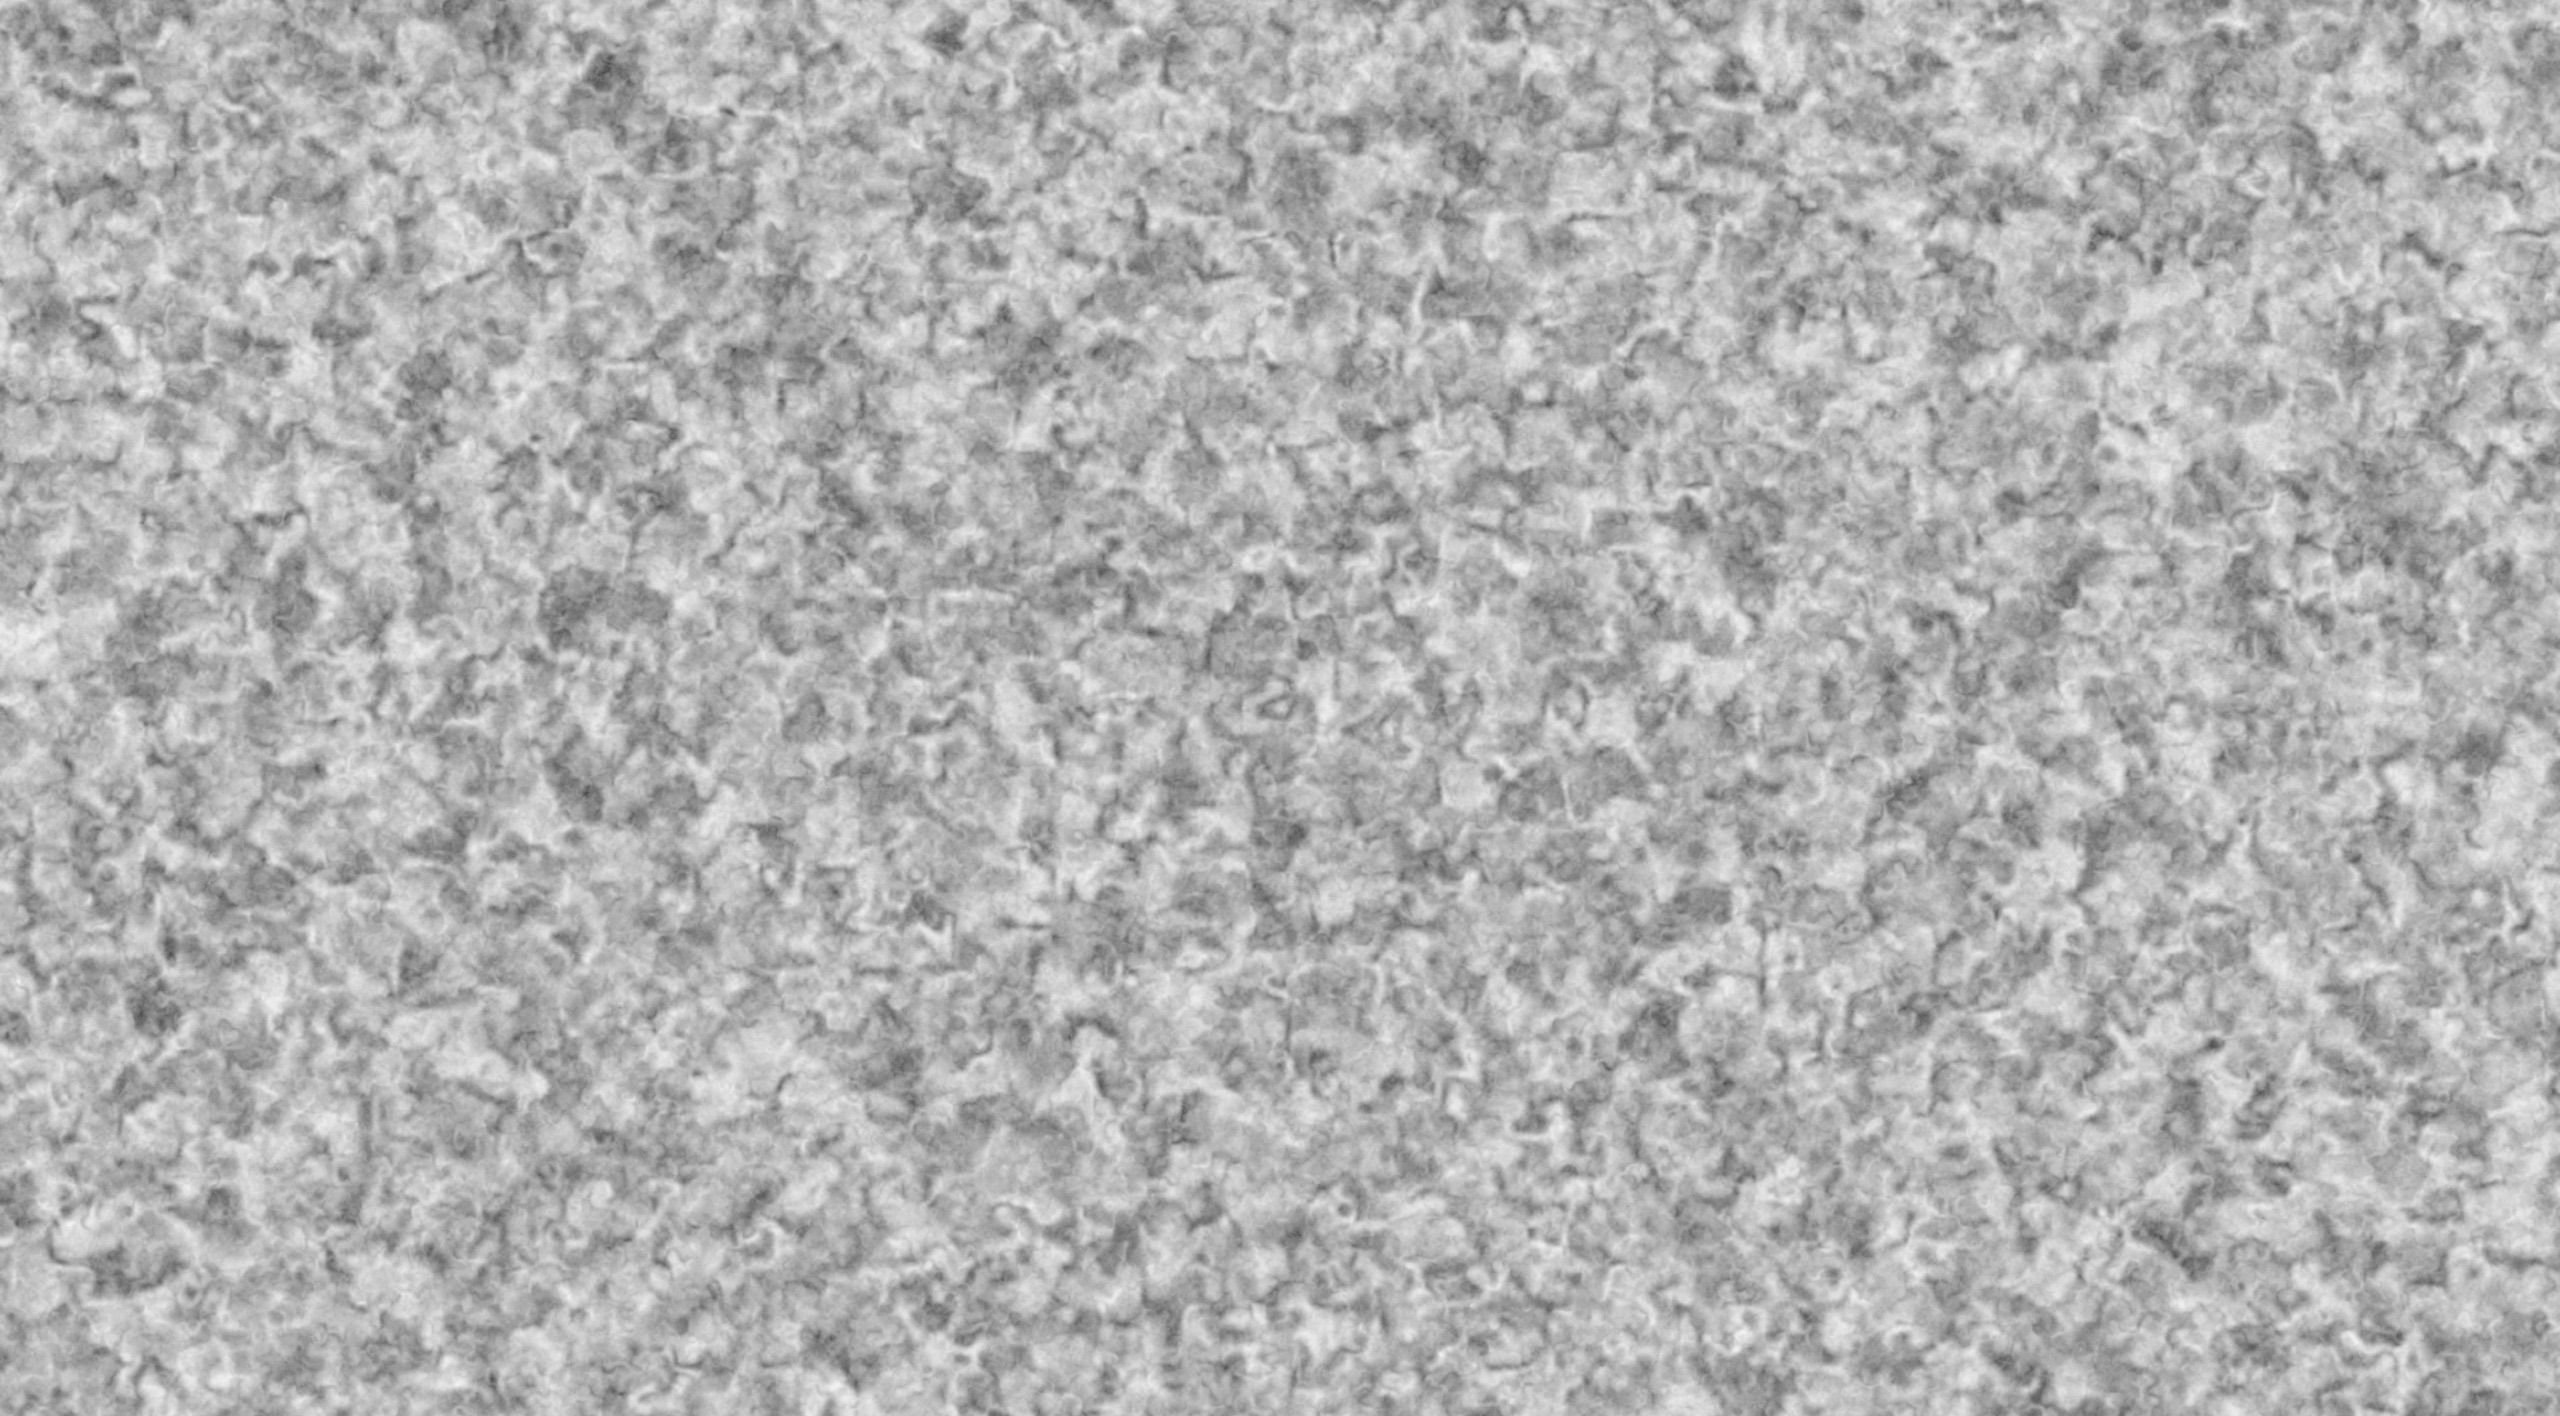
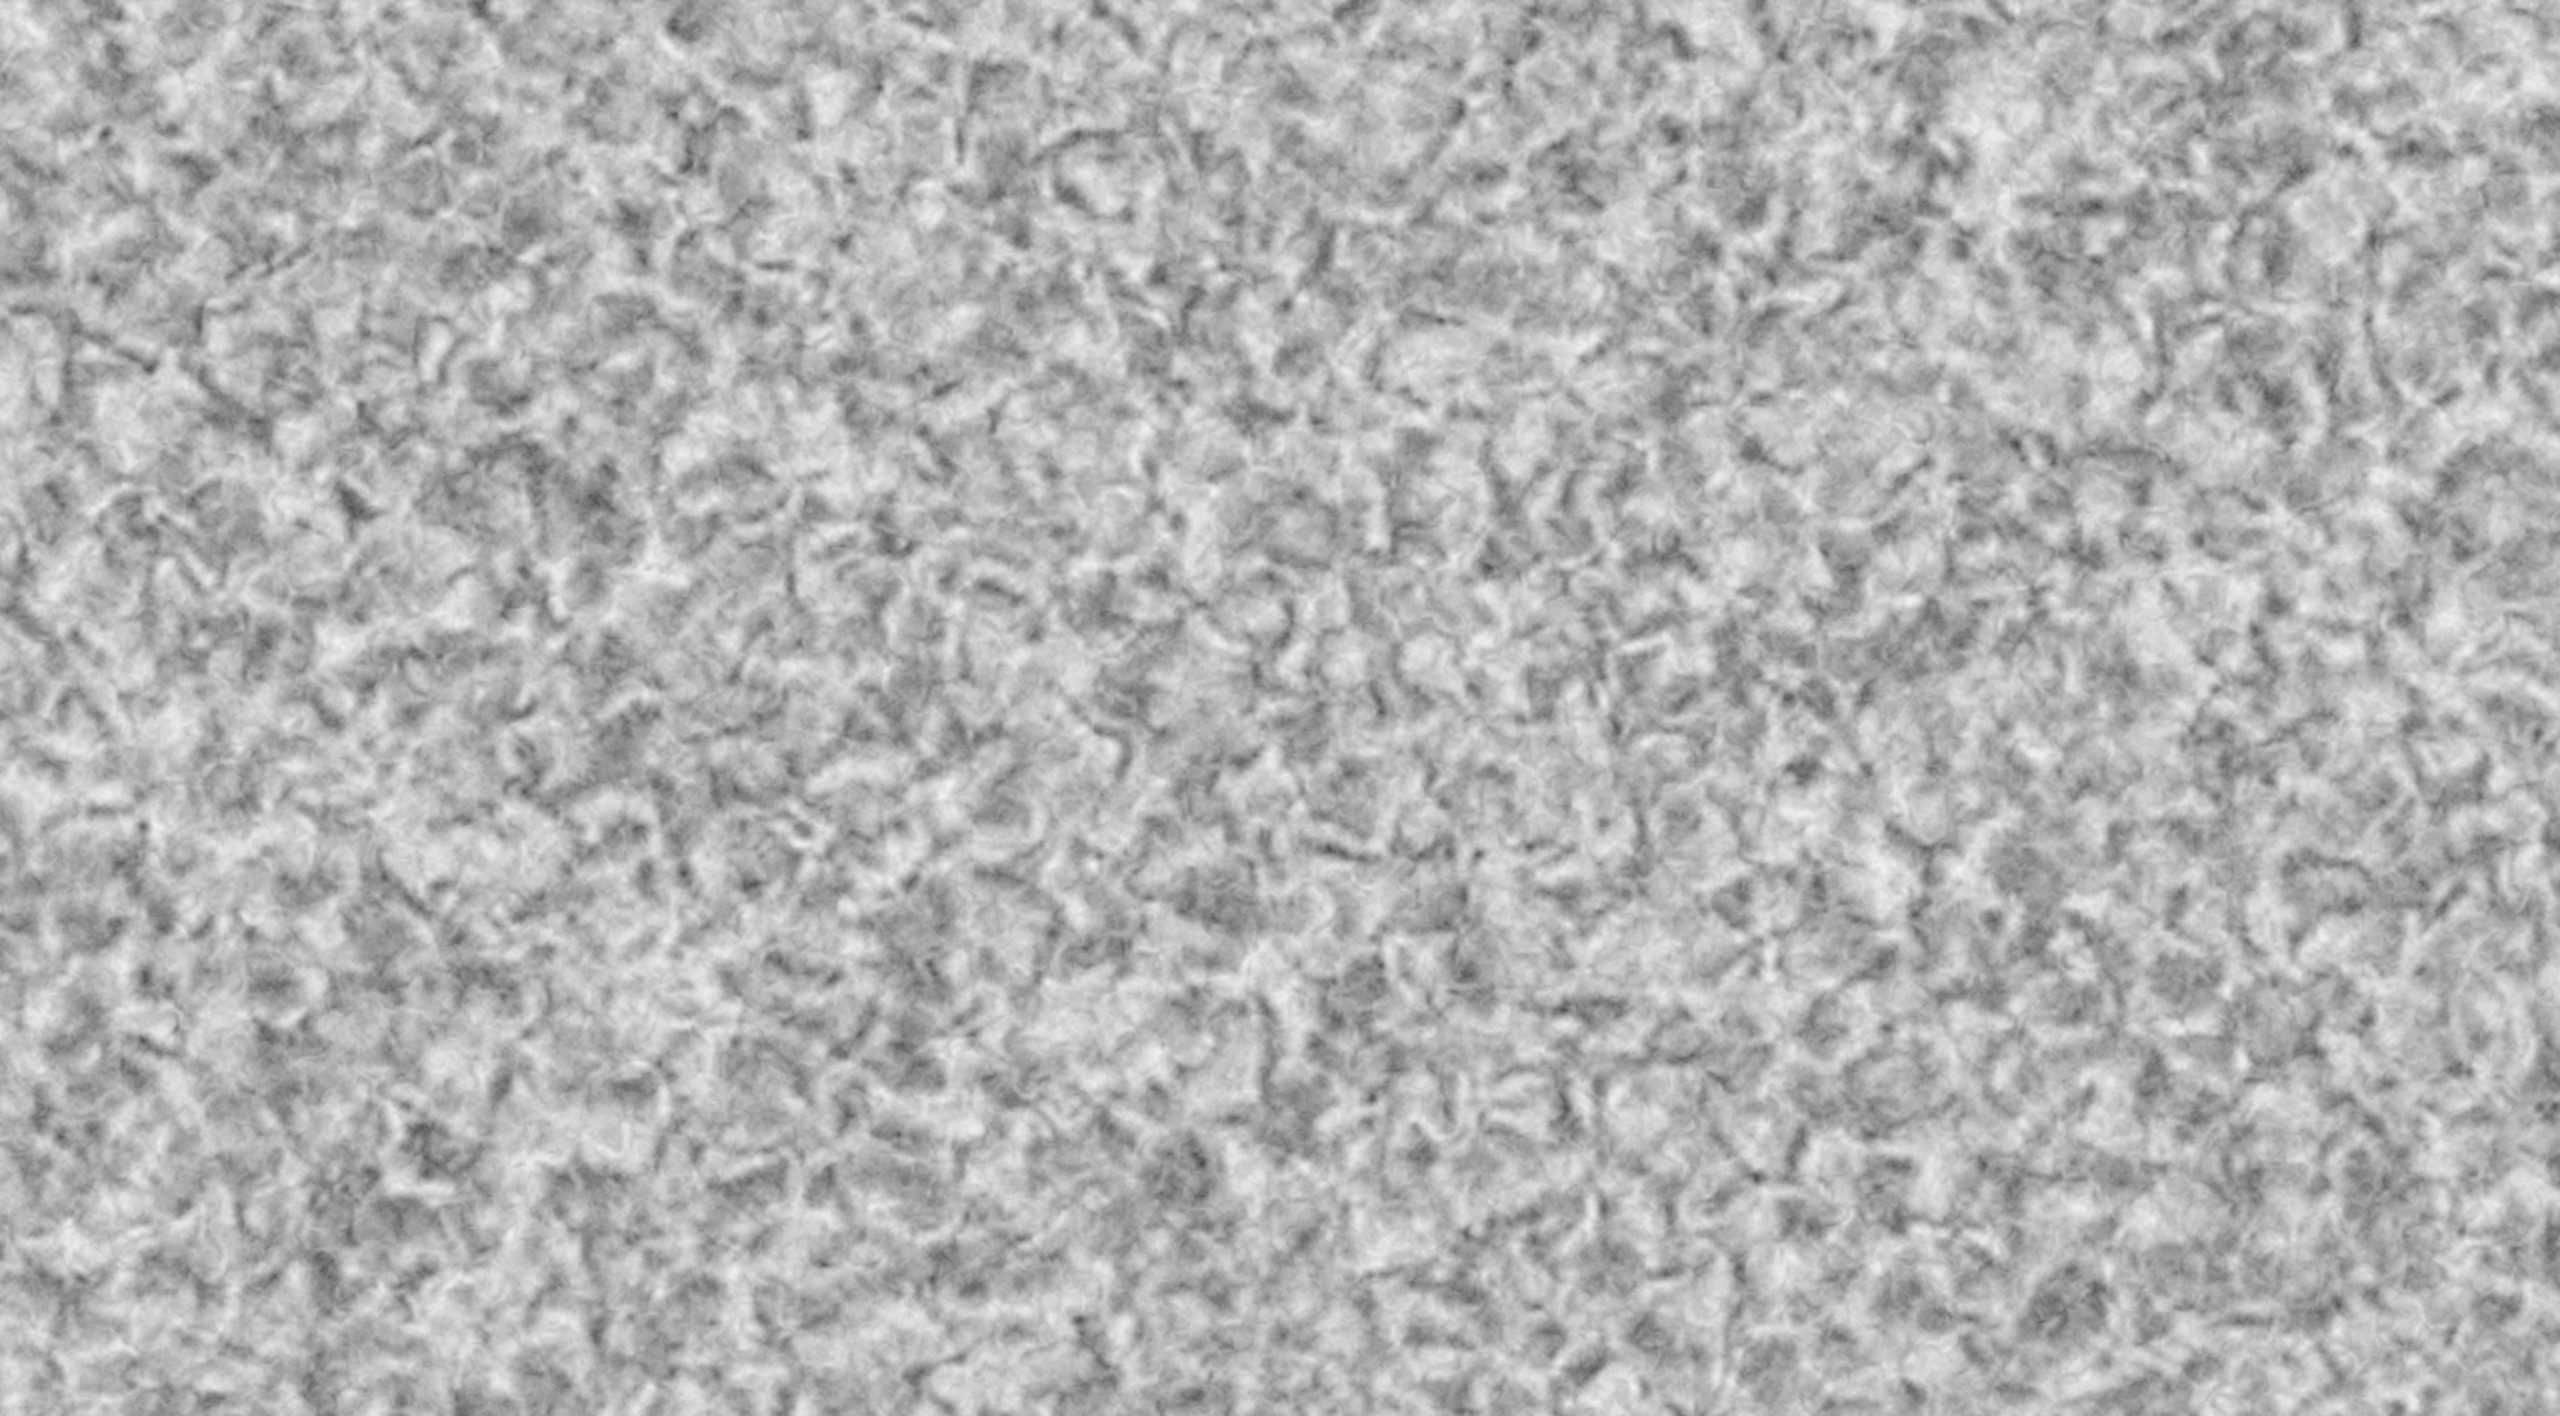
warping

diff --git a/examples/show_noise.rs b/examples/show_noise.rs
@@ -442,11 +442,11 @@ fn main() -> AppExit {
                                     FractalLayers<
                                         Octave<(
                                             Offset<
-                                                RandomElements<
-                                                    MixCellValues<
+                                                Offset<
+                                                    MixCellValuesForDomain<
                                                         OrthoGrid,
                                                         Smoothstep,
-                                                        Random<SNorm, f32>,
+                                                        SNorm,
                                                     >,
                                                 >,
                                             >,

diff --git a/book/src/quick-start/warping.md b/book/src/quick-start/warping.md
@@ -1,1 +1,109 @@
 # Warping
+
+One of the common ways to make noise look more interesting is to use one noise function to affect the input of another.
+This is called domain warping.
+
+## Translation-Based Warping
+
+The simplest way to warp noise is to run some noise function to get a vector, and add that vector to the input before passing it to another noise function.
+There are two core types for this `Offset`, which does the adding, and `RandomElements`, which makes the vectors to add.
+Here's how to warp perlin noise within fbm:
+
+```rust
+use noiz::prelude::*;
+use bevy_math::prelude::*;
+let noise = Noise::<LayeredNoise<
+    Normed<f32>,
+    Persistence,
+    FractalLayers<Octave<(
+        Offset<RandomElements<MixCellGradients<
+            OrthoGrid,
+            Smoothstep,
+            QuickGradients,
+        >>>,
+        MixCellGradients<OrthoGrid, Smoothstep, QuickGradients>,
+    )>>,
+>>::default();
+let value: f32 = noise.sample(Vec2::new(1.5, 2.0));
+```
+
+As you can see, `Offset` evaluates samples with `RandomElements` to produce a vector.
+That vector then offsets the input location.
+The now offset input is then passed to `MixCellGradients`.
+This produces:
+
+![fbm offset perlin noise image](../images/fbm-offset-perlin-noise.jpeg)
+
+Notice that the noise type for `RandomElements` does not need to match the one being warped, though in these examples it does.
+Swapping in simplex noise in both places gives:
+
+![fbm offset simplex noise image](../images/fbm-offset-simplex-noise.jpeg)
+
+Notice, that the inner noise function of `RandomElements` can be anything that produces a scalar value.
+This results in multiple samples though, which is expensive.
+Noiz provides an alternative, `MixCellValuesForDomain`, which is a faster version of `RandomElements` paired with `MixCellValues`.
+Here's an example of that with value noise:
+
+```rust
+use noiz::prelude::*;
+use bevy_math::prelude::*;
+let noise = Noise::<LayeredNoise<
+    Normed<f32>,
+    Persistence,
+    FractalLayers<Octave<(
+        Offset<MixCellValuesForDomain<OrthoGrid, Smoothstep, SNorm>>,
+        MixCellGradients<OrthoGrid, Smoothstep, QuickGradients>,
+    )>>,
+>>::default();
+let value: f32 = noise.sample(Vec2::new(1.5, 2.0));
+```
+
+This produces:
+
+![fbm offset value noise image](../images/fbm-offset-value-noise.jpeg)
+
+## Modifying-Based Warping
+
+What if each offset applied not only to the current layer, but also to all subsequent layers?
+That's what `DomainWarp` does.
+Here's an example:
+
+```rust
+use noiz::prelude::*;
+use bevy_math::prelude::*;
+let noise = Noise::<LayeredNoise<
+    Normed<f32>,
+    Persistence,
+    FractalLayers<(
+        DomainWarp<RandomElements<MixCellGradients<
+            OrthoGrid,
+            Smoothstep,
+            QuickGradients,
+        >>>,
+        Octave<MixCellGradients<
+            OrthoGrid,
+            Smoothstep,
+            QuickGradients
+        >>,
+    )>,
+>>::default();
+let value: f32 = noise.sample(Vec2::new(1.5, 2.0));
+```
+
+Here's what that produces:
+
+![fbm warped perlin noise image](../images/fbm-warped-perlin-noise.jpeg)
+
+Here it is with simplex:
+
+![fbm warped simplex noise image](../images/fbm-warped-simplex-noise.jpeg)
+
+And with value noise:
+
+![fbm warped value noise image](../images/fbm-warped-value-noise.jpeg)
+
+## Derivatives
+
+When using derivatives, know that warping like this can have surprising affects.
+The derivatives that noiz calculates are meant to be useful and fast, not mathematically rigorous.
+Before assuming they are perfectly correct, test it out in the "show_gradients" example.
